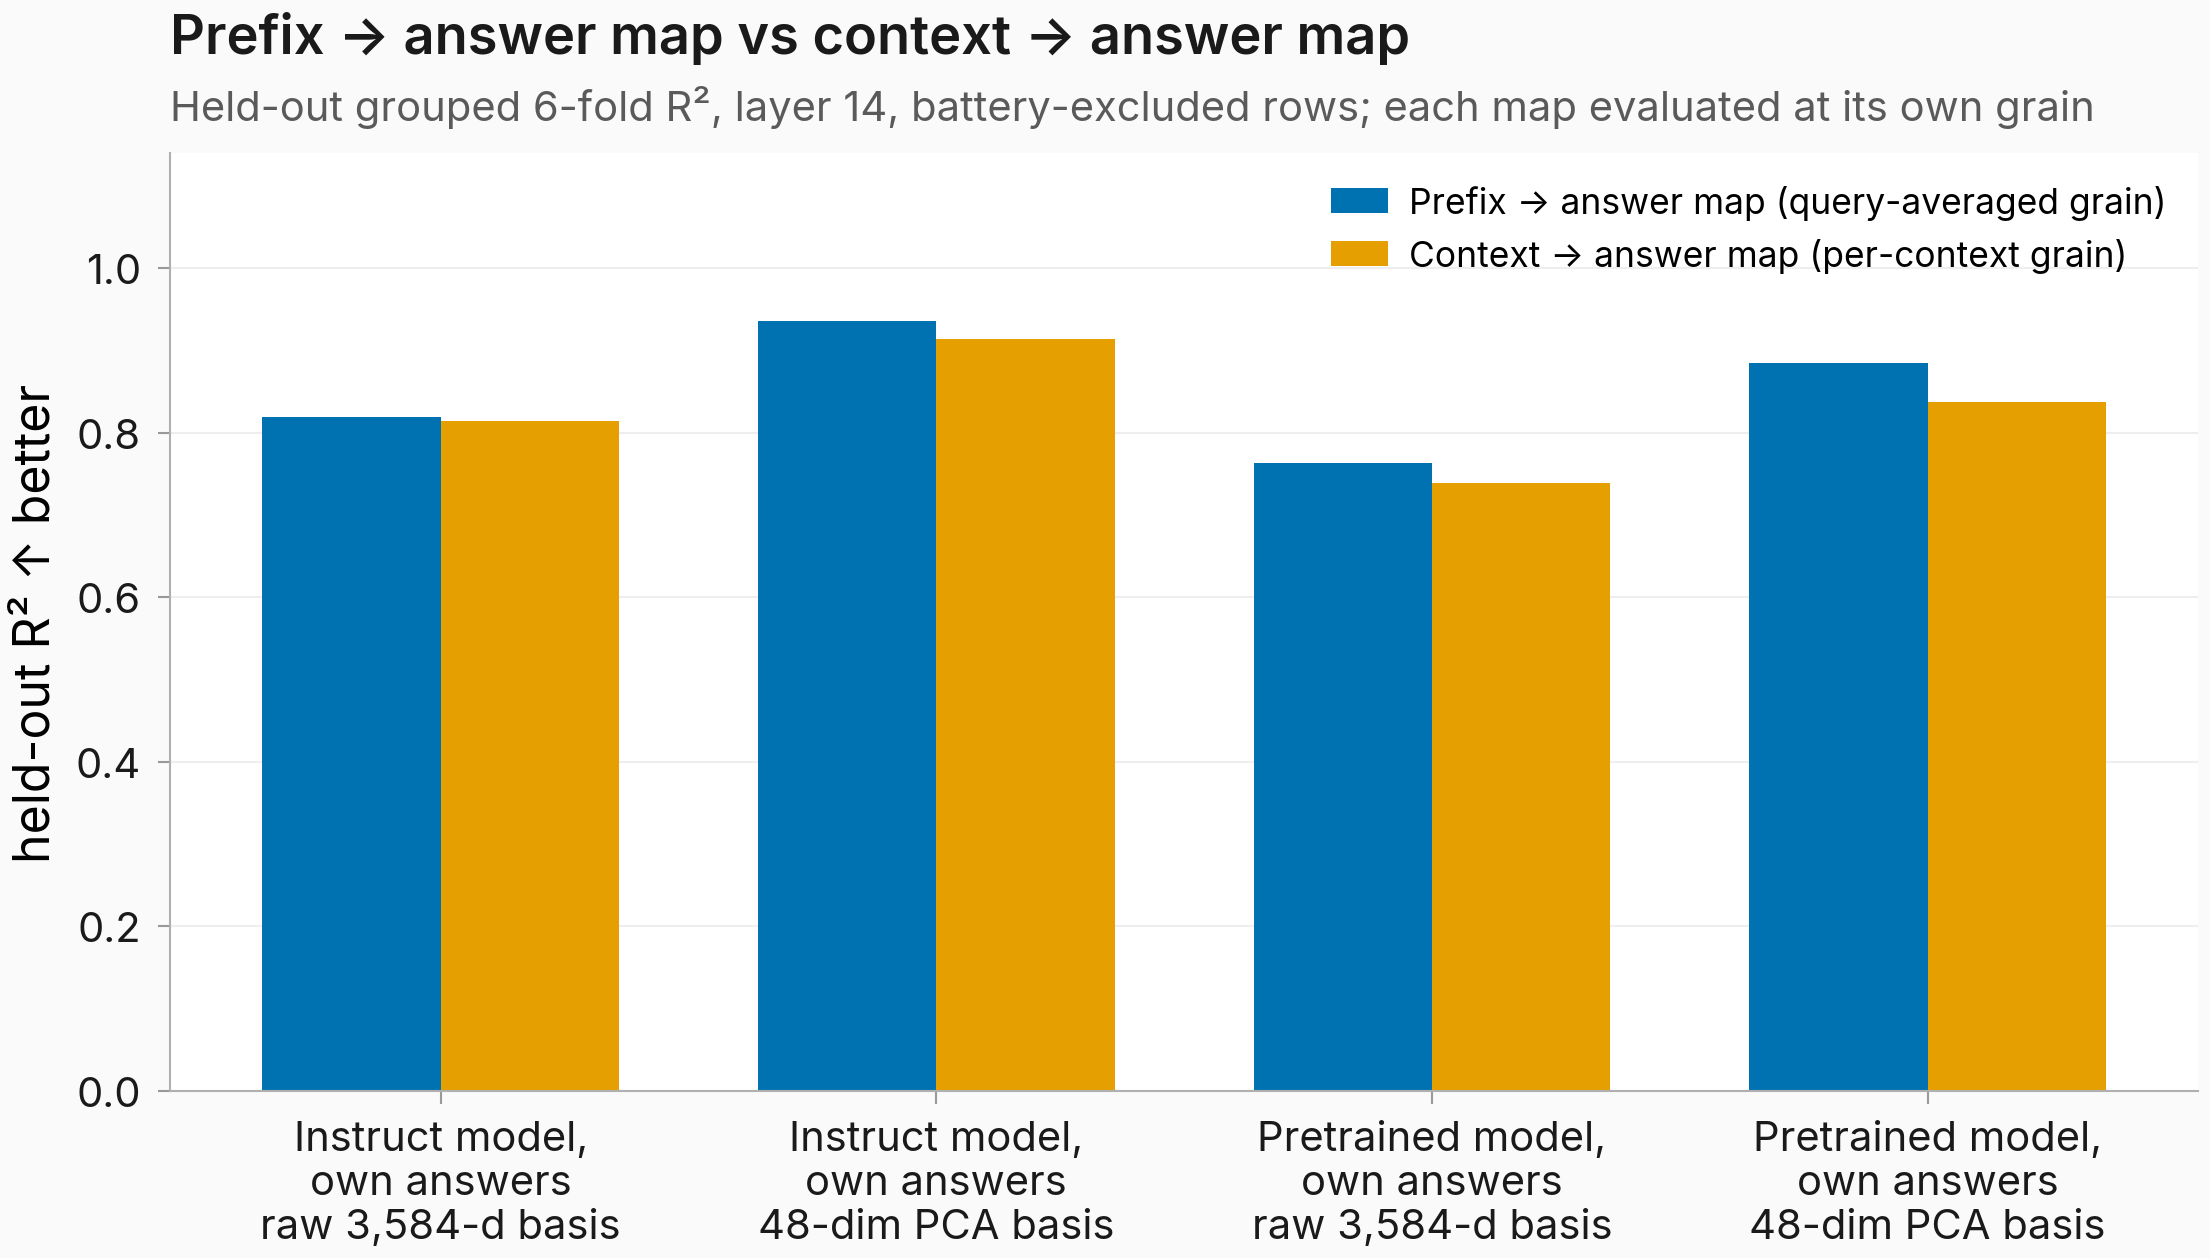
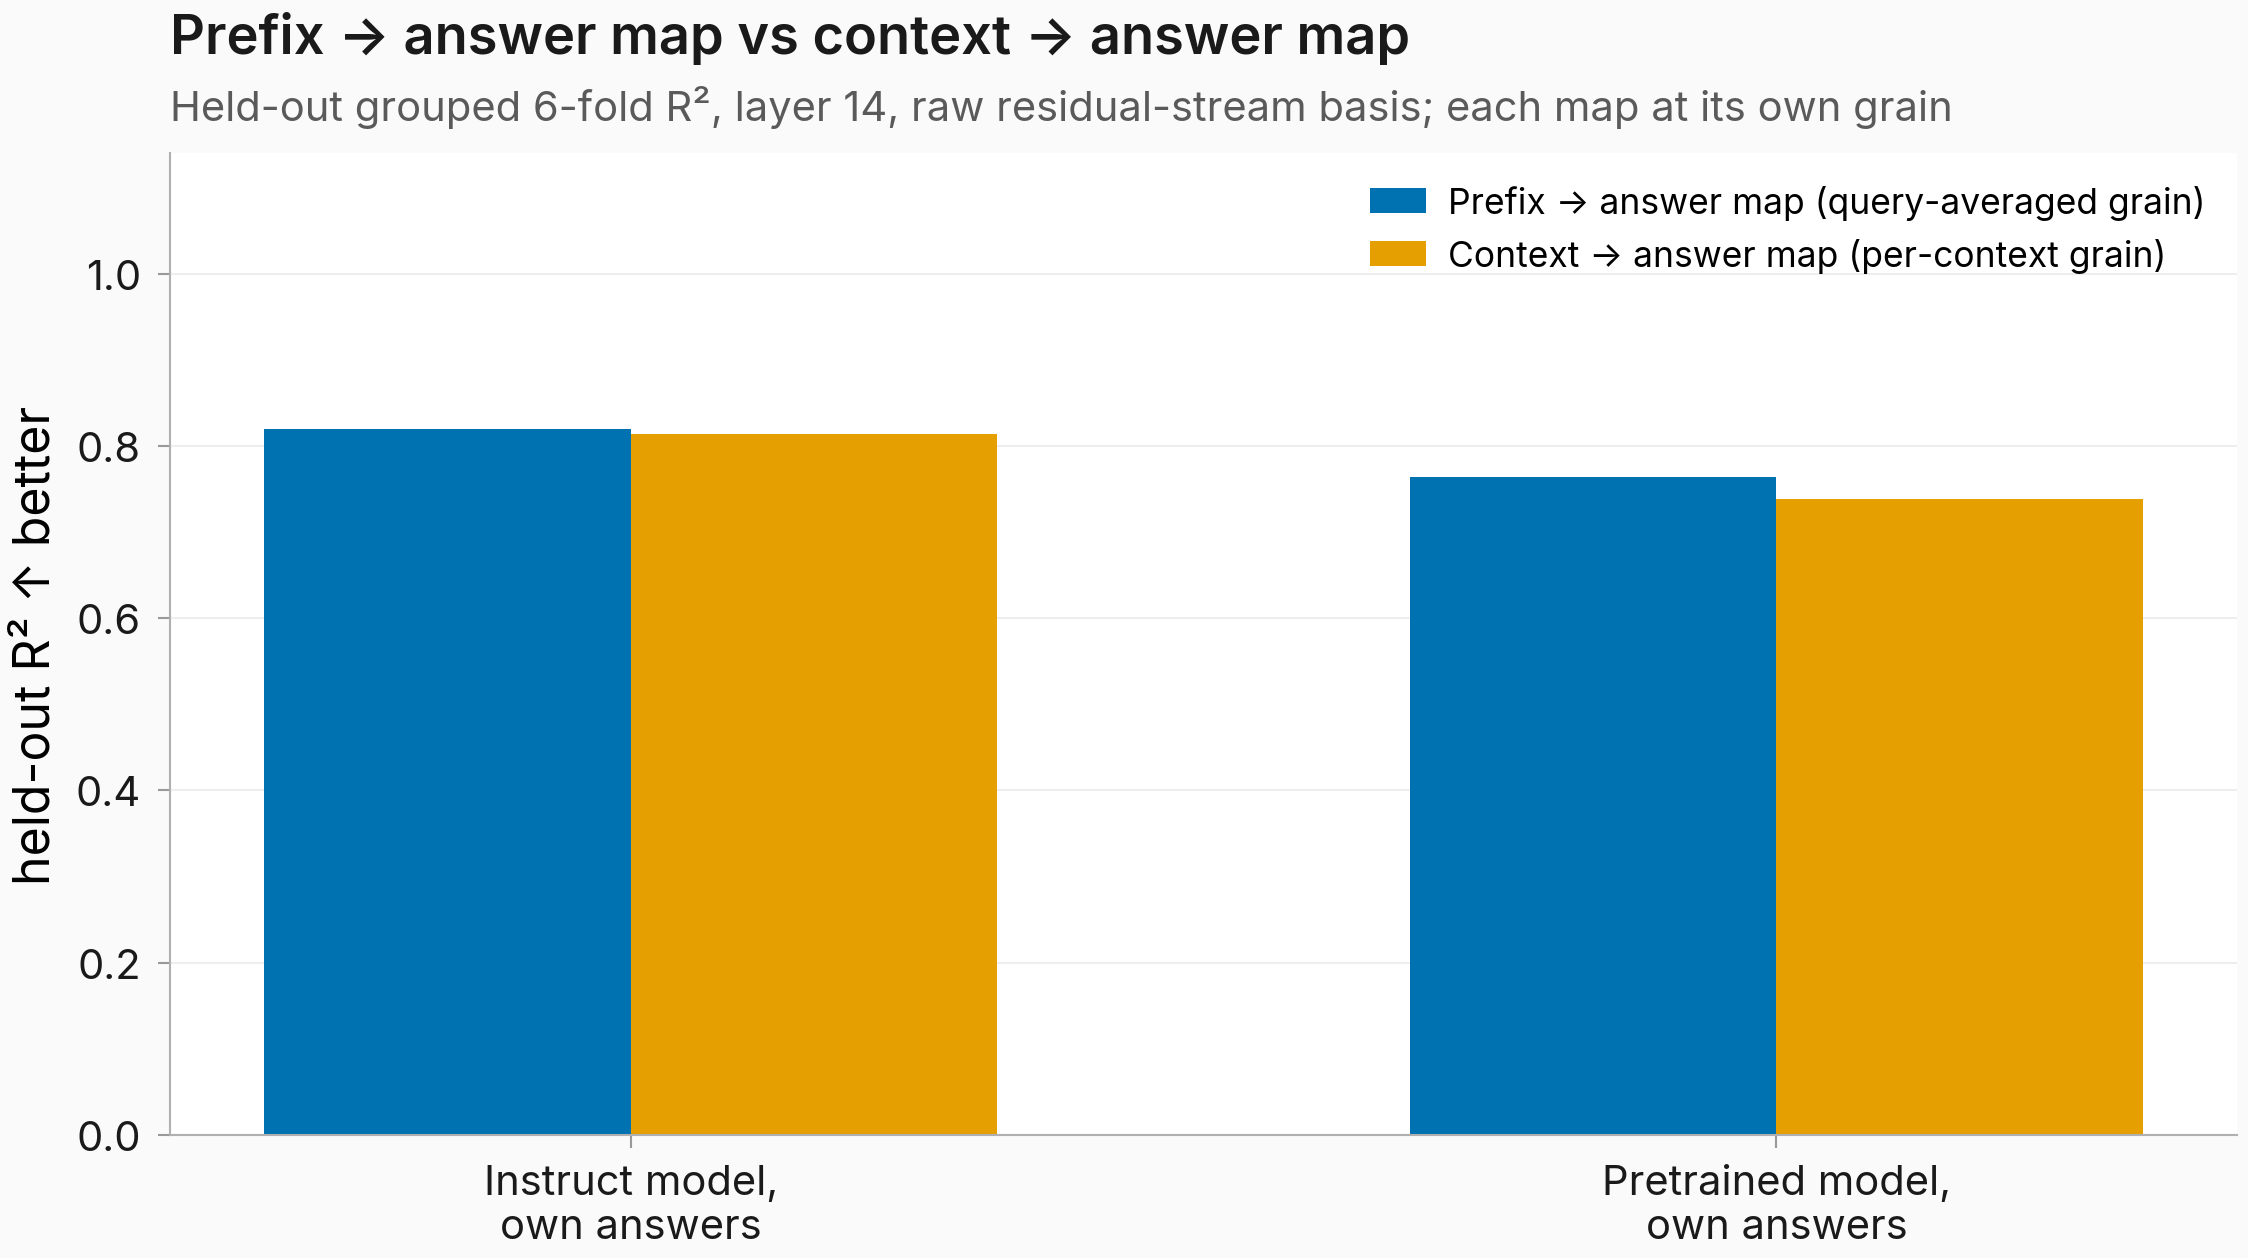
figures: #1092 fair-predictor figure — drop PCA-48 groups, ambient basis only
Generated with [Claude Code](https://claude.ai/code)
via [Happy](https://happy.engineering)

diff --git a/scripts/issue1092_fair_predictor_figure.py b/scripts/issue1092_fair_predictor_figure.py
@@ -51,17 +51,16 @@ def main() -> None:
     groups = []
     vals: dict[str, list[float]] = {k: [] for k, _ in SERIES}
     for cell in ["cell_inst_own", "cell_pre_own"]:
-        for basis in ["ambient", "pca48"]:
-            b = d["cells"][cell]["bases"][basis]
-            groups.append(f"{CELL_LABELS[cell]}\n{BASIS_LABELS[basis]}")
-            vals["prefix_map"].append(b["averaged_grain"]["r2_context_averaged"])
-            vals["ctx_map"].append(b["single_grain"]["r2_context_battery_excluded_full"])
+        b = d["cells"][cell]["bases"]["ambient"]
+        groups.append(CELL_LABELS[cell])
+        vals["prefix_map"].append(b["averaged_grain"]["r2_context_averaged"])
+        vals["ctx_map"].append(b["single_grain"]["r2_context_battery_excluded_full"])
 
     set_paper_style("blog")
     colors = paper_palette(2)
     fig, ax = plt.subplots(figsize=(7.5, 4.2))
     x = np.arange(len(groups))
-    width = 0.36
+    width = 0.32
     for i, (key, label) in enumerate(SERIES):
         ax.bar(x + (i - 0.5) * width, vals[key], width, label=label, color=colors[i])
     ax.set_xticks(x)
@@ -74,8 +73,8 @@ def main() -> None:
     set_title_subtitle(
         ax,
         "Prefix → answer map vs context → answer map",
-        "Held-out grouped 6-fold R², layer 14, battery-excluded rows; "
-        "each map evaluated at its own grain",
+        "Held-out grouped 6-fold R², layer 14, raw residual-stream basis; "
+        "each map at its own grain",
     )
     savefig_paper(fig, "issue_1092/fair_predictor_prefix_vs_context_map", dir="figures/")
     plt.close(fig)
